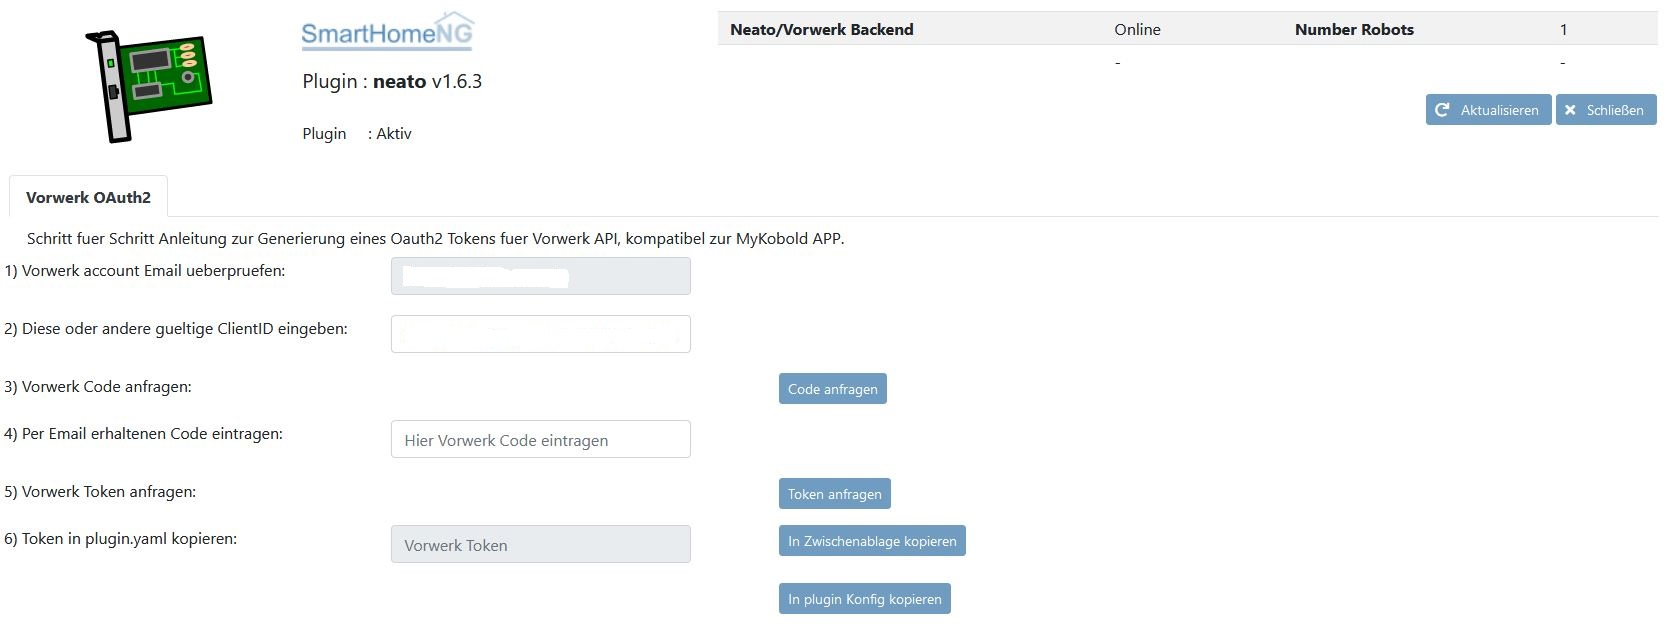
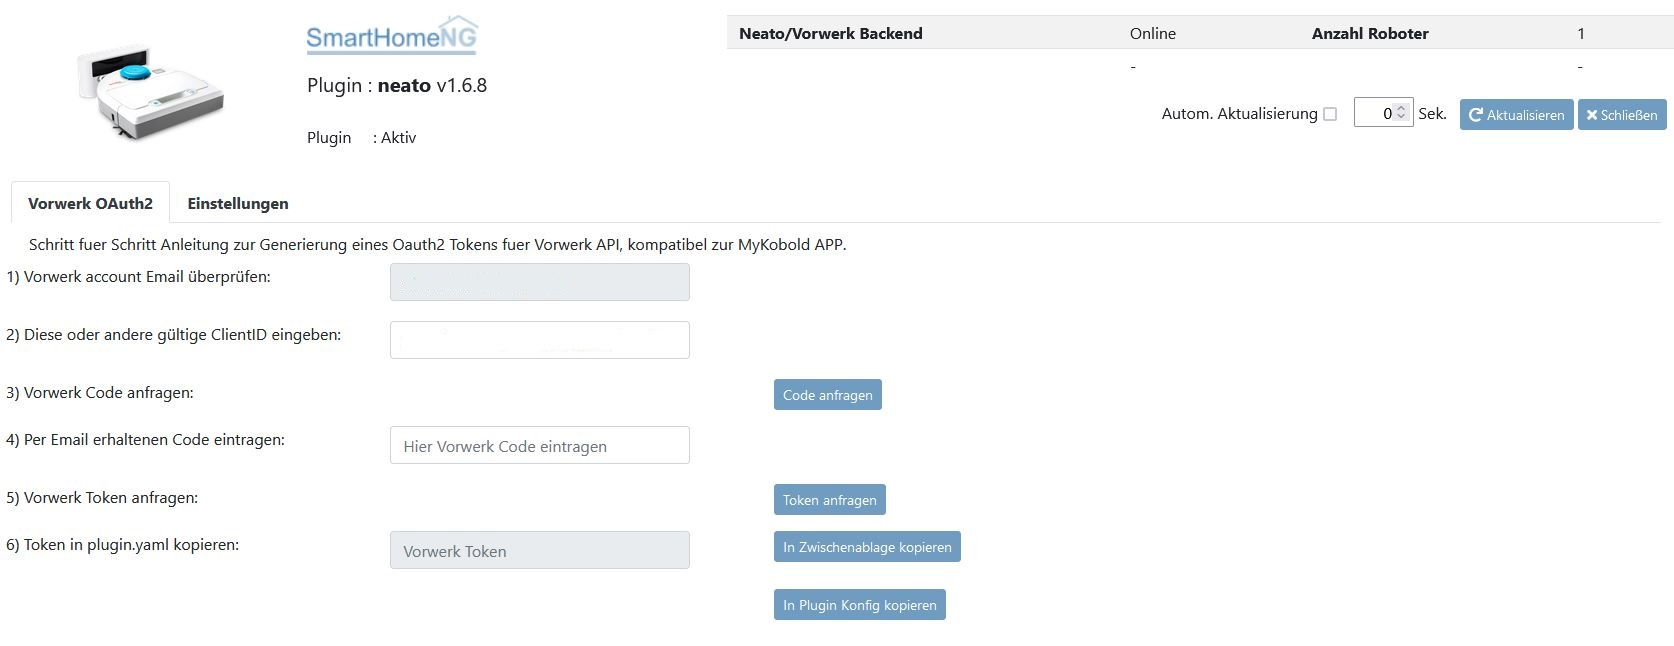
neato/vorwerk: further corrections for user_doc

diff --git a/neato/webif/templates/index.html b/neato/webif/templates/index.html
@@ -157,7 +157,7 @@
 {% if codeRequestSuccessfull %}
 	<div class="mb-2 alert alert-success alert-dismissible fade show" role="alert">
 		<strong>{{ _('Vorwerk Validierungscode') }}</strong><br/>
-		{{ _('Anfrage an Vorwerk gesendet. Bitte Emailpostfach ueberpruefen.') }}
+		{{ _('Anfrage an Vorwerk gesendet. Bitte Emailpostfach überprüfen.') }}
 		<button type="button" class="close" data-dismiss="alert" aria-label="Close">
 			<span aria-hidden="true">&times;</span>
 		</button>
@@ -166,7 +166,7 @@
 {% if codeRequestSuccessfull == False%}
 	<div class="mb-2 alert alert-warning alert-dismissible fade show" role="alert">
 		<strong>{{ _('Vorwerk Validierungscode') }}</strong><br/>
-		{{ _('Fehler bei Anfrage an Vorwerk. Siehe Logfile fuer Details.') }}
+		{{ _('Fehler bei Anfrage an Vorwerk. Siehe Logfile für Details.') }}
 		<button type="button" class="close" data-dismiss="alert" aria-label="Close">
 			<span aria-hidden="true">&times;</span>
 		</button>
@@ -184,7 +184,7 @@
 {% if configWriteSuccessfull == False %}
 	<div class="mb-2 alert alert-warning alert-dismissible fade show" role="alert">
 		<strong>{{ _('Token speichern') }}</strong><br/>
-		{{ _('Fehler beim Speichern des Tokens in plugin.yaml. Siehe Logfile fuer Details.') }}
+		{{ _('Fehler beim Speichern des Tokens in plugin.yaml. Siehe Logfile für Details.') }}
 		<button type="button" class="close" data-dismiss="alert" aria-label="Close">
 			<span aria-hidden="true">&times;</span>
 		</button>
@@ -192,8 +192,8 @@
 {% endif %}
 {% if resetAlarmsSuccessfull %}
 	<div class="mb-2 alert alert-success alert-dismissible fade show" role="alert">
-		<strong>{{ _('Alarme loeschen') }}</strong><br/>
-		{{ _('Alarme geloescht') }}
+		<strong>{{ _('Alarme löschen') }}</strong><br/>
+		{{ _('Alarme gelöscht') }}
 		<button type="button" class="close" data-dismiss="alert" aria-label="Close">
 			<span aria-hidden="true">&times;</span>
 		</button>
@@ -201,8 +201,8 @@
 {% endif %}
 {% if boundaryListSuccessfull %}
 	<div class="mb-2 alert alert-success alert-dismissible fade show" role="alert">
-		<strong>{{ _('List Boundaries (Raume)') }}</strong><br/>
-		{{ _('Verfuegbare Boundary IDs (Raeume) ins Logfile geschrieben.') }}
+		<strong>{{ _('List Boundaries (Räume)') }}</strong><br/>
+		{{ _('Verfügbare Boundary IDs (Räume) ins Logfile geschrieben.') }}
 		<button type="button" class="close" data-dismiss="alert" aria-label="Close">
 			<span aria-hidden="true">&times;</span>
 		</button>
@@ -210,8 +210,8 @@
 {% endif %}
 {% if boundaryListSuccessfull == False %}
 	<div class="mb-2 alert alert-warning alert-dismissible fade show" role="alert">
-		<strong>{{ _('List Boundaries (Raeume)') }}</strong><br/>
-		{{ _('Fehler beim Listen der verfuegbaren Boundary IDs (Raeume). Siehe Logfile fuer Details.') }}
+		<strong>{{ _('List Boundaries (Räume)') }}</strong><br/>
+		{{ _('Fehler beim Listen der verfügbaren Boundary IDs (Räume). Siehe Logfile für Details.') }}
 		<button type="button" class="close" data-dismiss="alert" aria-label="Close">
 			<span aria-hidden="true">&times;</span>
 		</button>
@@ -231,7 +231,7 @@
 	<div class="col-md-11 mb-3">
 		<div class="row">
 			<div class="col-md-3 mb-3">
-				{{ _('1) Vorwerk account Email ueberpruefen') }}:
+				{{ _('1) Vorwerk account Email überprüfen') }}:
 			</div>
 			<div class="col-md-3 mb-3">
 				<input type="email" class="form-control mb-1" id="input-email" value= {{ p.accountEmail() }} readonly placeholder="{{ _('Account Email') }}" maxlength="32" style="width: 300px;">
@@ -256,7 +256,7 @@
 		<div class="row">
 		<td style="min-width:190px;" style="padding-top:15px;">
 			<div class="col-md-3 mb-3">
-				{{ _('2) Diese oder andere gueltige ClientID eingeben') }}:
+				{{ _('2) Diese oder andere gültige ClientID eingeben') }}:
 			</div>
 			<div class="col-md-3 mb-3">
 				<input type="text" class="form-control mb-1" id="input-hash" value = {{ p.clientIDHash() }} 
@@ -328,23 +328,23 @@
 		<div class="row">
 			<td style="min-width:190px;" style="padding-top:15px;">
 			<div class="col-md-6 mb-3">
-			{{ _('Alarme im Backend loeschen') }}
+			{{ _('Alarme im Backend löschen') }}
 			</div>
 			<div class="col-md-6 mb-3">
-				<button type="button" class="btn btn-shng btn-sm" onclick="clearAlarmsCommand()" title= "{{ _('Loescht Fehlermeldungen, wie z.B. Staubbehaelter leeren.') }}">{{ _('Alarme loeschen') }}</button>
+				<button type="button" class="btn btn-shng btn-sm" onclick="clearAlarmsCommand()" title= "{{ _('Löscht Fehlermeldungen, wie z.B. Staubbehälter leeren.') }}">{{ _('Alarme löschen') }}</button>
 			</div>
 		</div>
 		<div class="row">
 			<td style="min-width:190px;" style="padding-top:15px;">
 			<div class="col-md-3 mb-3">
-			{{ _('Verfuegbare Boundary IDs (Raeume) ins Log schreiben') }}
+			{{ _('Verfügbare Boundary IDs (Räume) ins Log schreiben') }}
 			</div>
 			<div class="col-md-3 mb-3">
 				<input type="text" class="form-control mb-1" id="input-mapid" placeholder="{{ _('Hier Map ID eintragen') }}" {% if p.get_known_mapId() %} value = {{ p.get_known_mapId() }} {% endif %}
  				maxlength="25" style="width: 300px;">
 			</div>
 			<div class="col-md-6 mb-3">
-				<button type="button" class="btn btn-shng btn-sm" onclick="listAvailableMaps()" title= "{{ _('Schreibt die verfuegbaren Raeume ins Logfile') }}">{{ _('Liste Raeume') }}</button>
+				<button type="button" class="btn btn-shng btn-sm" onclick="listAvailableMaps()" title= "{{ _('Schreibt die verfügbaren Räume ins Logfile') }}">{{ _('Liste Räume') }}</button>
 			</div>
 		</div>
 	</div>

diff --git a/neato/__init__.py b/neato/__init__.py
@@ -62,7 +62,6 @@ class Neato(SmartPlugin):
     def setClientIDHash(self, hash):
         return self.robot.setClientIDHash(hash)
 
-
     def run(self):
         self.logger.debug("Run method called")
         self.scheduler_add('poll_device', self.poll_device, prio=5, cycle=self._cycle)
@@ -141,7 +140,7 @@ class Neato(SmartPlugin):
         return self.check_command_response(response)
 
     def get_known_mapId(self):
-        self.logger.warning(f"Debug: MapID is {self.robot.mapId}")
+        self.logger.info(f"MapID is {self.robot.mapId}")
         return self.robot.mapId
 
     # returns boundaryIds (clean zones) for given mapID

diff --git a/neato/user_doc.rst b/neato/user_doc.rst
@@ -21,7 +21,7 @@ Die Informationen zur Konfiguration des Plugins sind unter :doc:`/plugins_doc/co
 
 Anforderungen
 =============
-1) Es muss auf dem SmarthomeNG Rechcner en_US.utf8 installiert sein (sudo dpkg-reconfigure locales)
+1) Es muss auf dem SmarthomeNG Rechner en_US.utf8 installiert sein (sudo dpkg-reconfigure locales)
 
 Unterstützte Hardware
 =====================
@@ -29,12 +29,12 @@ Unterstützte Hardware
 =============== ============= ==========
 Roboter          Unterstützt   Getestet
 =============== ============= ==========
-Neato Botvac D3 ja       nein
-Neato Botvac D4 ja       nein
-Neato Botvac D5 ja       ja
-Neato Botvac D6 ja       nein
-Neato Botvac D7 ja       nein
-Vorwerk VR300   ja       ja
+Neato Botvac D3   ja             nein
+Neato Botvac D4   ja             nein
+Neato Botvac D5   ja             ja
+Neato Botvac D6   ja             nein
+Neato Botvac D7   ja             nein
+Vorwerk VR300     ja             ja
 =============== ============= ==========
 
 
@@ -43,9 +43,9 @@ Unterstützte Plugin Attribute
 
 Folgende Item Attribute (neato_attribute) werden vom Plugin unterstützt:
 
-=================== ========= =====================
+=================== ========== =====================
 Attribut             Itemtyp    Lesend/Schreibend
-=================== ========= =====================
+=================== ========== =====================
 name                      str        r
 state                     str        r
 state_action              str        r
@@ -57,7 +57,7 @@ charge_percentage         num        r
 command_goToBaseAvailable bool       r
 alert                     str        r
 clean_room                str        w
-=================== ========= =====================
+=================== ========== =====================
 
 
 
@@ -70,35 +70,34 @@ Das String Item für den Roboterstatus (state) kann folgende Zustände einnehmen
 Roboterstatus (state)  
 =====================
 invalid
-invalid
 idle
 busy
 paused
 error
-=============== 
+=====================
 
 Das Num Item für den Roboterzustand (state_action) kann folgende Zustände einnehmen:
 
-============================= =========
+========================================= =========
 Roboterzustand (state_action)  dezimal
-============================= =========
-Invalid                       0
-House Cleaning                1
-Spot Cleaning                 2
-Manual Cleaning               3
-Docking                       4
-User Menu Active              5
-Suspended Cleaning            6
-Updating                      7
-Copying Logs                  8
-Recovering Location           9
-IEC Test                     10
-Map cleaning                 11
-Exploring map (creating a persistent map) 12
-Acquiring Persistent Map IDs 13
-Creating & Uploading Map     14
-Suspended Exploration        15
-============================= =========
+========================================= =========
+Invalid                                     0
+House Cleaning                              1
+Spot Cleaning                               2
+Manual Cleaning                             3
+Docking                                     4
+User Menu Active                            5
+Suspended Cleaning                          6
+Updating                                    7
+Copying Logs                                8
+Recovering Location                         9
+IEC Test                                    10
+Map cleaning                                11
+Exploring map (creating a persistent map)   12
+Acquiring Persistent Map IDs                13
+Creating & Uploading Map                    14
+Suspended Exploration                       15
+========================================= =========
 
 Roboter Befehle
 ===============
